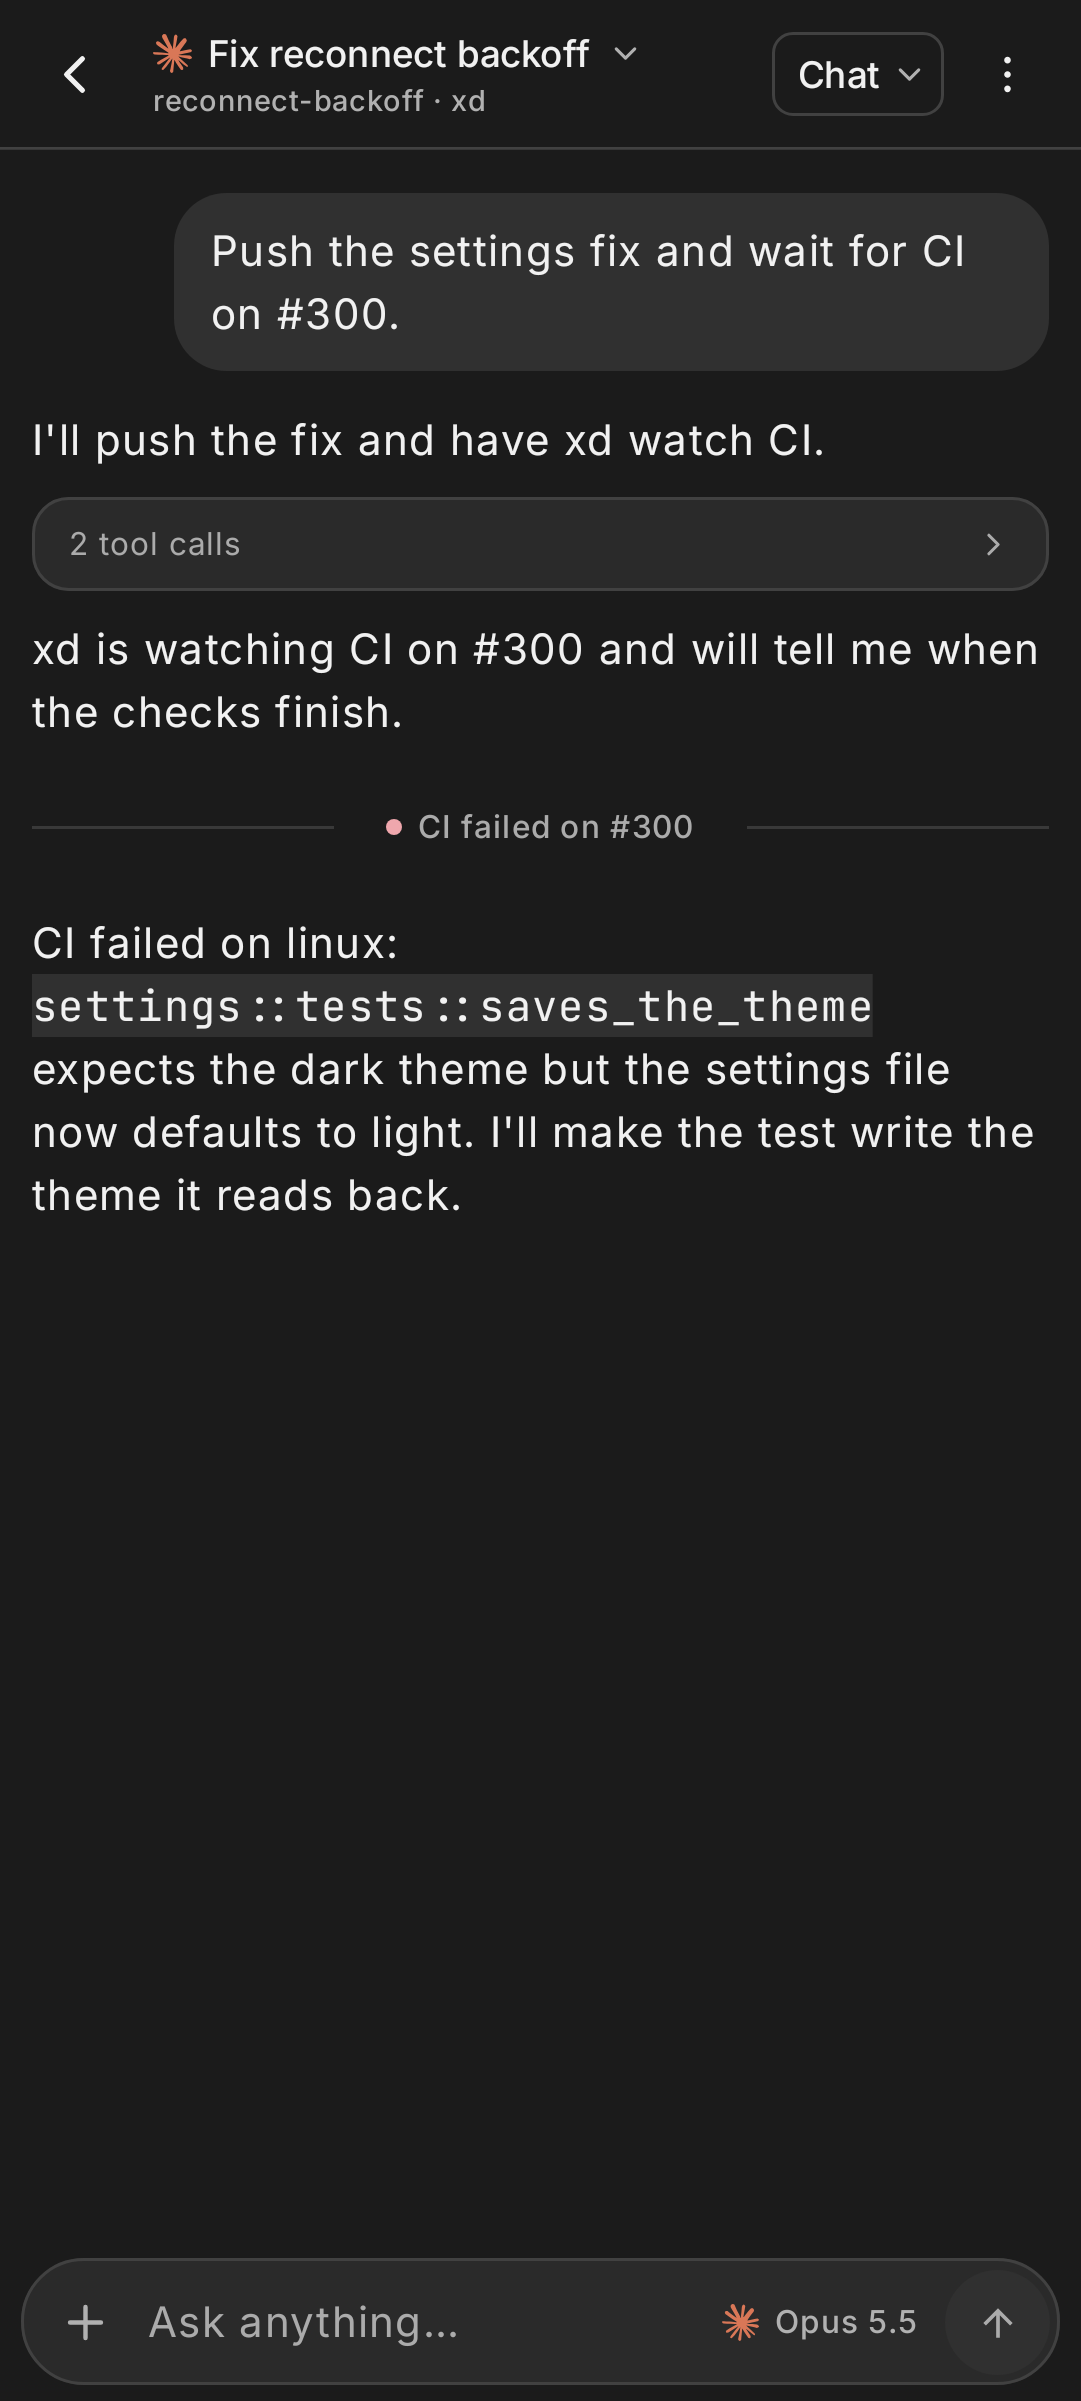
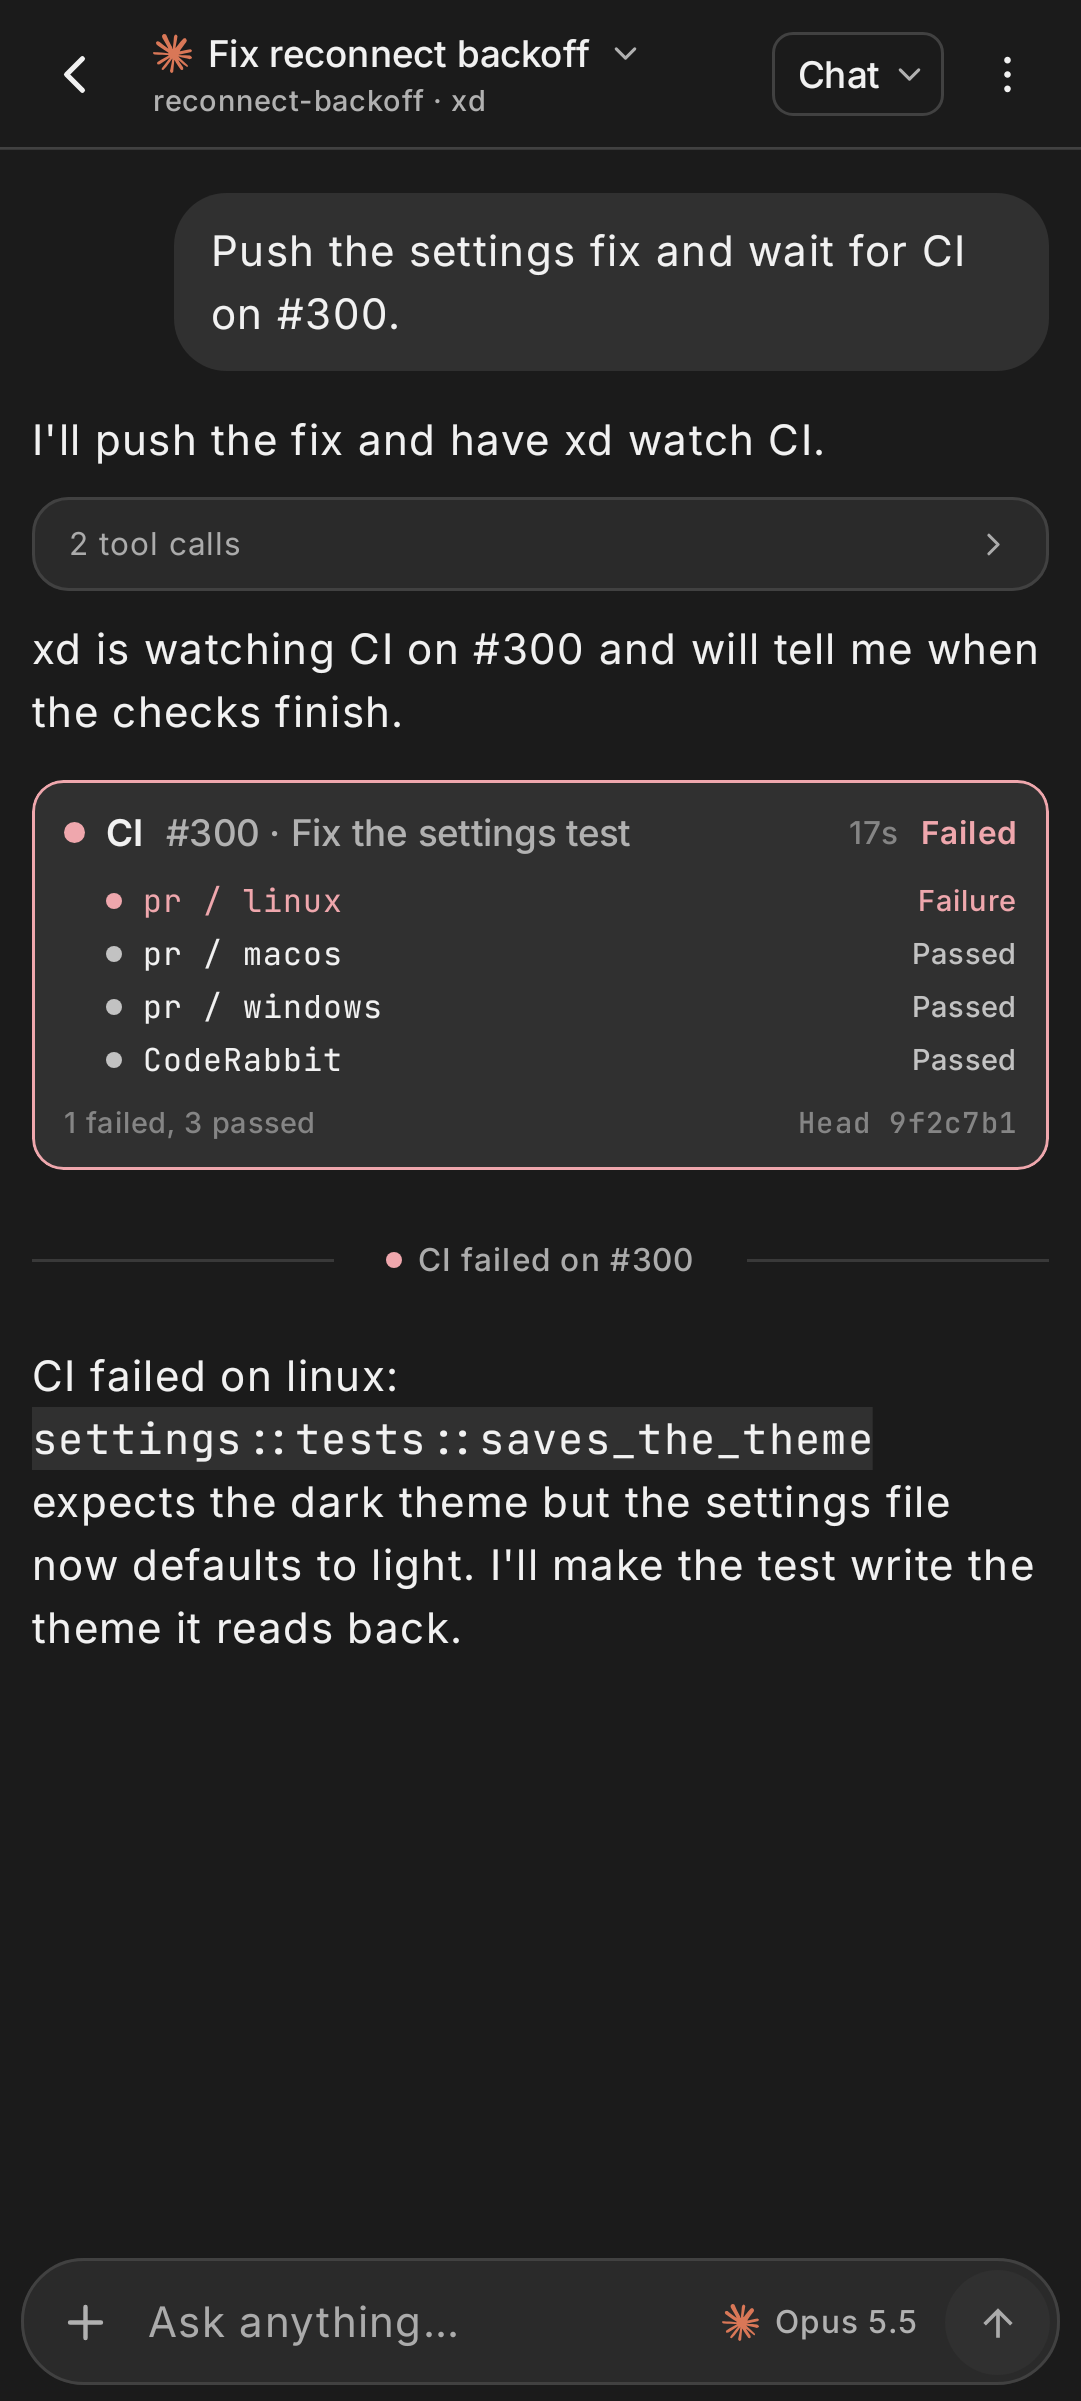
test(mobile): render the CI card in the chat screenshots

Changed region(s): [[0.0305, 0.3436, 0.9769, 0.531], [0.0305, 0.5623, 0.4274, 0.6872], [0.4274, 0.5935, 0.9463, 0.656]]

diff --git a/mobile/androidApp/src/test/kotlin/com/restartfu/xd/mobile/ui/ChatScreenshotTest.kt b/mobile/androidApp/src/test/kotlin/com/restartfu/xd/mobile/ui/ChatScreenshotTest.kt
@@ -132,6 +132,8 @@ class ChatScreenshotTest {
         }
         check(chat.state.value.visibleItems.size >= 6)
         if (ci) {
+            compose.onNodeWithText("#300 · Fix the settings test").assertIsDisplayed()
+            compose.onNodeWithText("1 failed, 3 passed").assertIsDisplayed()
             compose.onNodeWithText("CI failed on #300").assertIsDisplayed()
             compose.onNodeWithText("1 of 4 checks did not pass", substring = true).assertDoesNotExist()
         }
@@ -239,6 +241,7 @@ class ChatScreenshotTest {
             "tool" to "\$ git push",
             "tool" to "Watch CI  https://github.com/RestartFU/xd/pull/300",
             "assistant" to "\n\nxd is watching CI on #300 and will tell me when the checks finish.",
+            "tool" to "ci_run\n{\"checks\":[{\"conclusion\":\"failure\",\"link\":\"https://github.com/RestartFU/xd/actions/runs/43100/job/130600\",\"name\":\"linux\",\"state\":\"failed\",\"workflow\":\"pr\"},{\"link\":\"https://github.com/RestartFU/xd/actions/runs/43100/job/130601\",\"name\":\"macos\",\"state\":\"passed\",\"workflow\":\"pr\"},{\"link\":\"https://github.com/RestartFU/xd/actions/runs/43100/job/130602\",\"name\":\"windows\",\"state\":\"passed\",\"workflow\":\"pr\"},{\"link\":\"https://app.coderabbit.ai/x\",\"name\":\"CodeRabbit\",\"state\":\"passed\"}],\"counts\":{\"failed\":1,\"passed\":3,\"pending\":0,\"skipped\":0},\"finished_at\":1794420805,\"head\":\"9f2c7b1\",\"number\":300,\"started_at\":1794420788,\"status\":\"failed\",\"title\":\"Fix the settings test\",\"url\":\"https://github.com/restartfu/xd/pull/300\"}",
             "user" to "[xd] CI failed on https://github.com/restartfu/xd/pull/300 at 9f2c7b1.\n\n1 of 4 checks did not pass (3 passed):\n- pr / linux: failure (https://github.com/RestartFU/xd/actions/runs/43100/job/130600)\n\nThe end of pr / linux's failed steps:\n\n```\ntest settings::tests::saves_the_theme ... FAILED\nthread settings::tests::saves_the_theme panicked at desktop/src/settings.rs:212:9:\nassertion `left == right` failed\n  left: \"light\"\n right: \"dark\"\ntest result: FAILED. 460 passed; 1 failed\n```",
             "assistant" to "CI failed on linux: `settings::tests::saves_the_theme` expects the dark theme but the settings file now defaults to light. I'll make the test write the theme it reads back.",
         )
